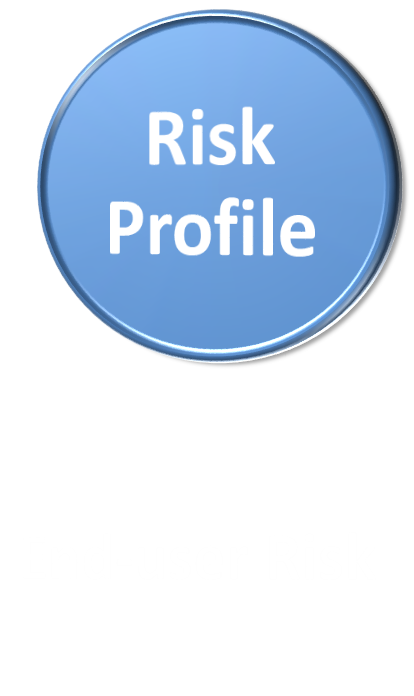
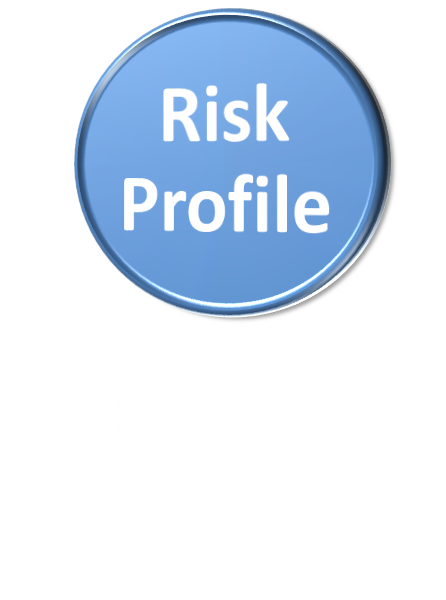
Signed-off-by: Laurie0131 <laurie.jarlstrom@intel.com>

Changed region(s): [[0.087, 0.0, 0.9855, 0.54], [0.2609, 0.27, 0.7826, 0.39], [0.3478, 0.12, 0.6667, 0.24]]

diff --git a/PITCHME.md b/PITCHME.md
@@ -287,7 +287,7 @@ Note:
 </span></p>
 @snapend
 
-@snap[north-east span-25 fragment]
+@snap[north-east span-30 fragment]
 <br>
 <br>
 <br>
